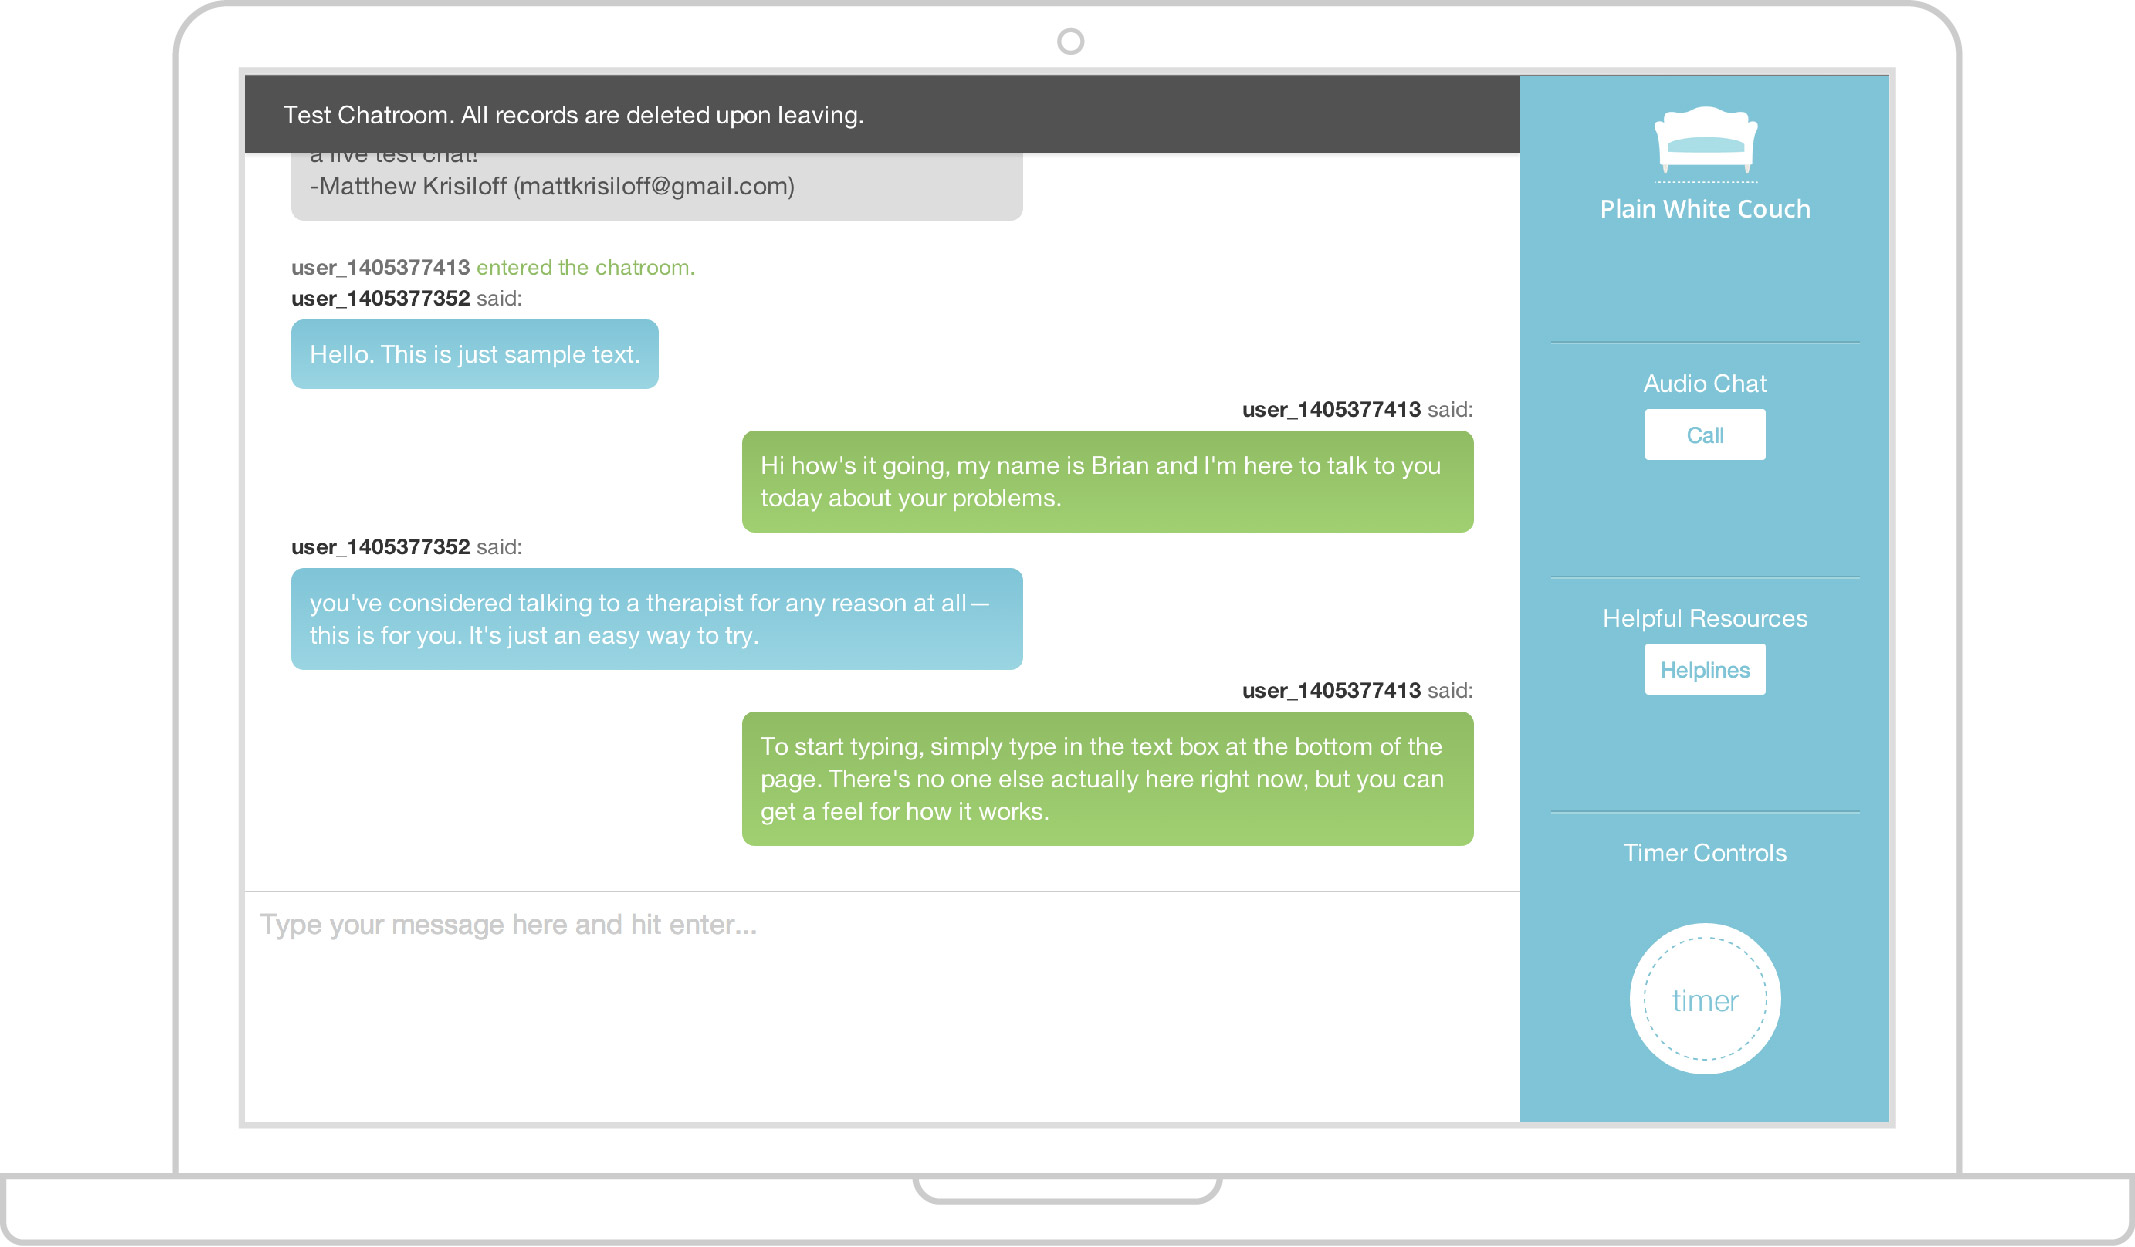
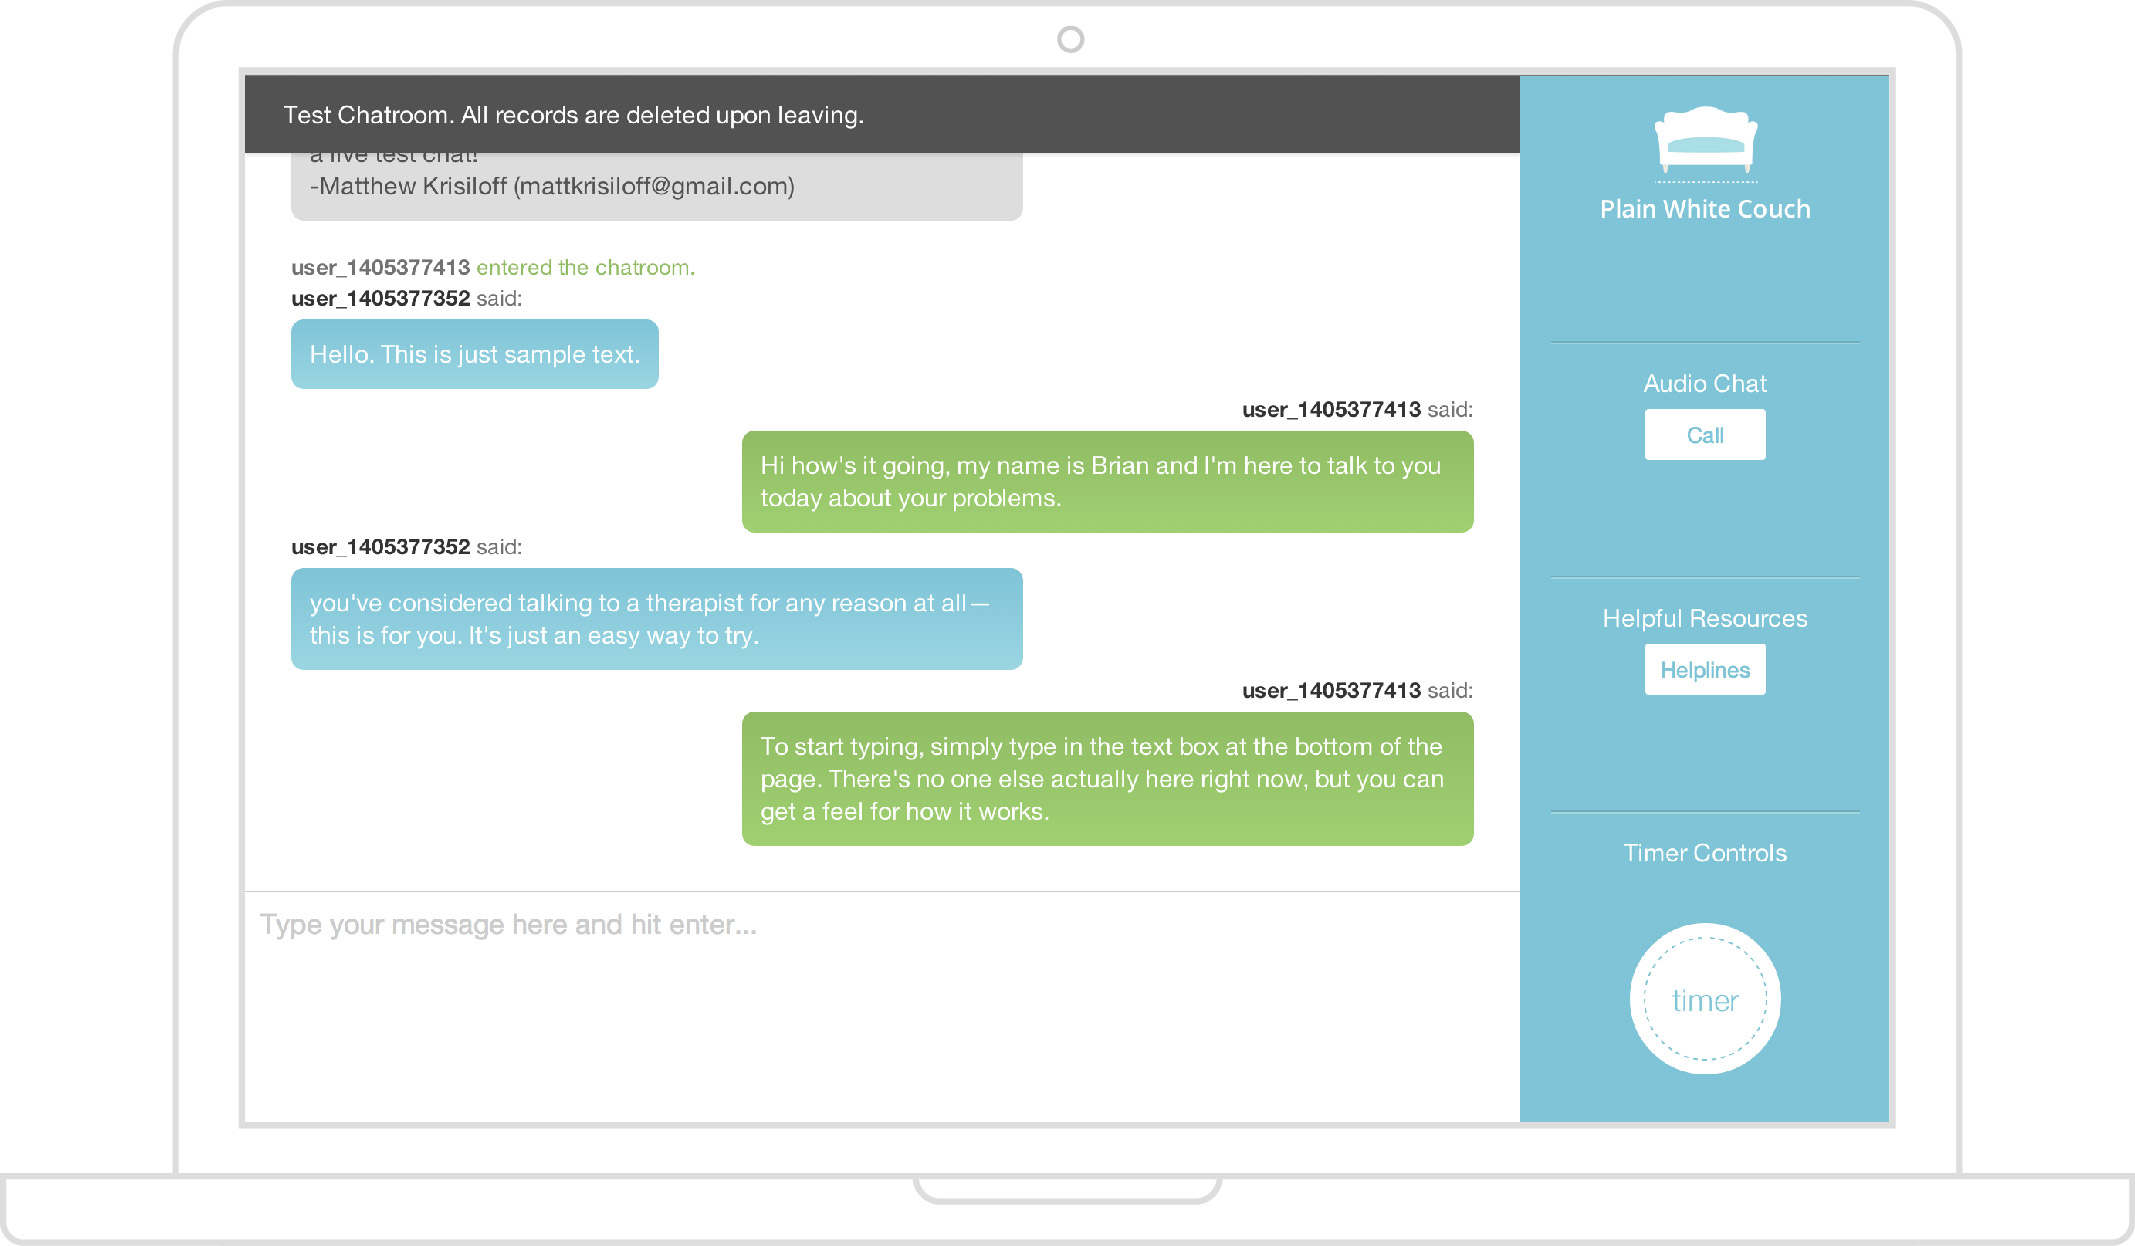
add coffee cup to laptop pic

diff --git a/app/assets/stylesheets/static_pages.css.scss b/app/assets/stylesheets/static_pages.css.scss
@@ -208,7 +208,7 @@ p {
 			}
 		
 			#copy-container {
-				margin-top: 40px;
+				margin-top: 0px;
 			
 				h1 {
 					text-align: center;
@@ -327,12 +327,13 @@ p {
 #panel2 {
 	
 	.bg-container {
-		background-position: right center;
-		background-size: $max-width auto;
+		background-image: image-url('laptop-wireframe-coffee-center.jpg');
+		background-position: bottom;
+		background-size: 1100px auto;
 	
 		.container {
 			padding-top: 90px;
-			padding-bottom: 110px;
+			padding-bottom: 450px;
 			
 			.columns {
 				h2 {
@@ -352,13 +353,13 @@ p {
 			.image-container {
 				position: relative;
 				padding: 0px;
-				margin-top: 30px;
+				margin-top: 0px;
 				text-align: center;
 				
 				#laptop-chat {
 					margin: auto;
 					width: 100%;
-					max-width: 750px;
+					max-width: 700px;
 				}
 				
 				.chat-ui-container {
